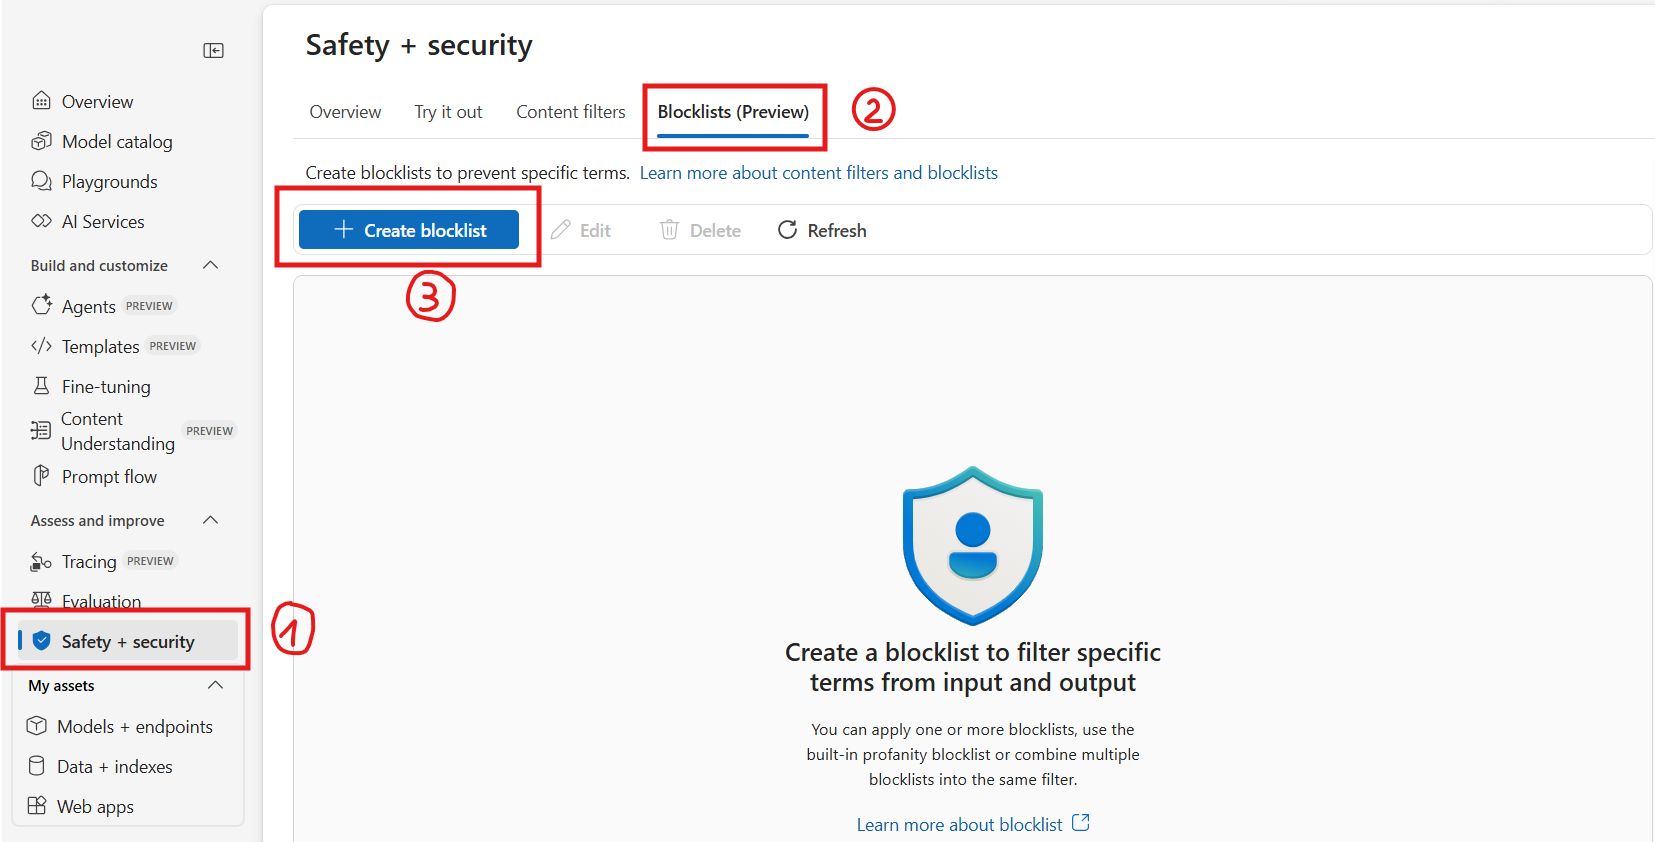
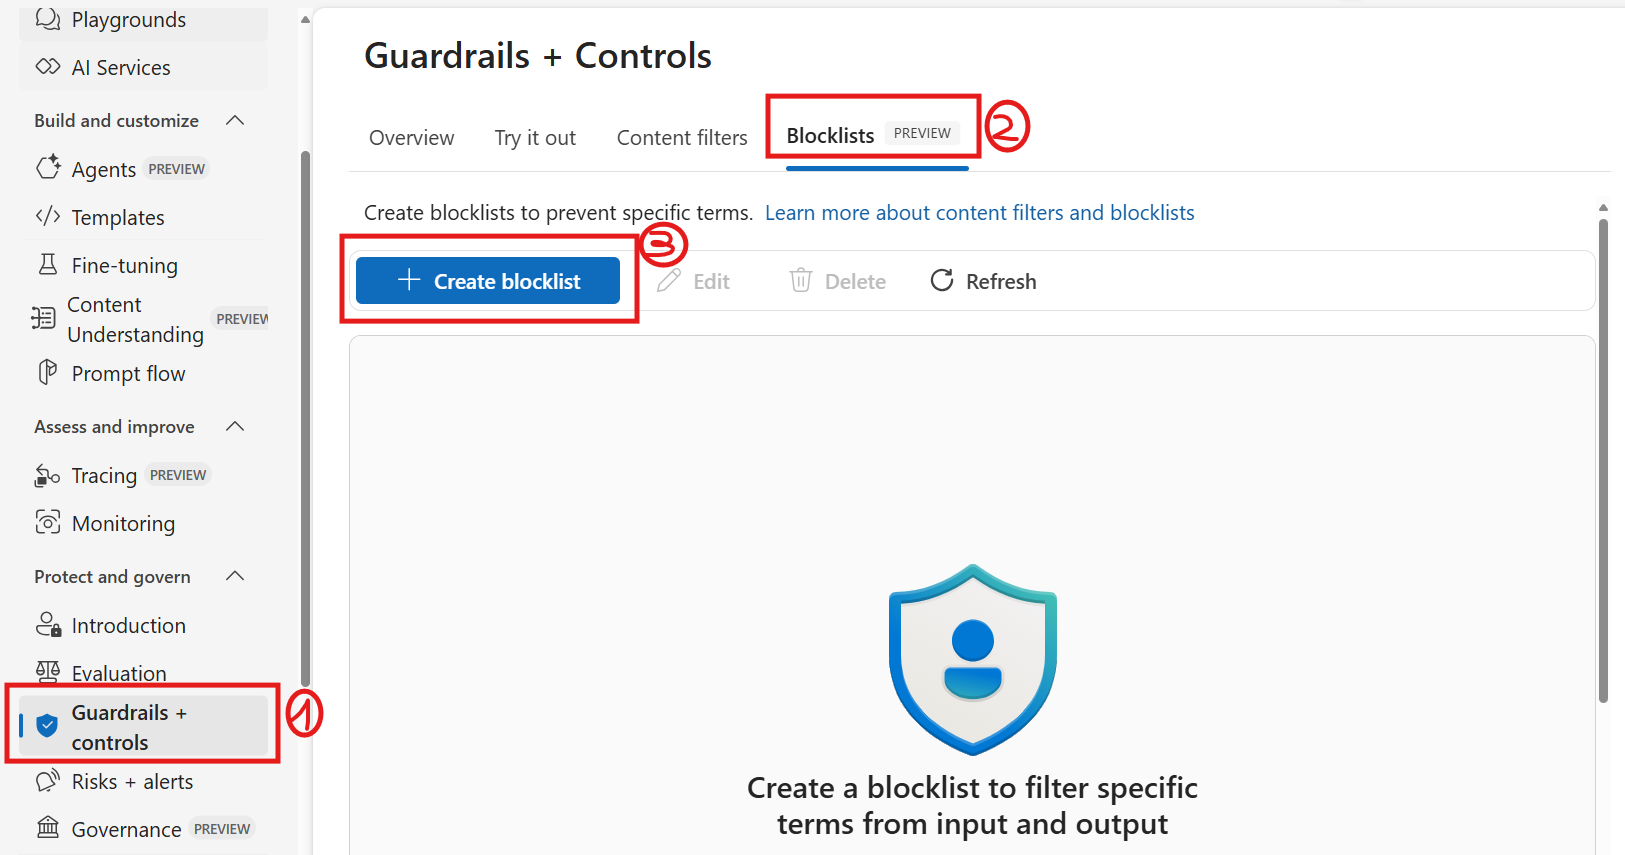
build updates

diff --git a/lab/Skillable Workshop Instructions/01_Set_up.md b/lab/Skillable Workshop Instructions/01_Set_up.md
@@ -30,7 +30,8 @@ In this workshop we will be working on Azure AI Foundry portal, focusing especia
 
 2. Locate the +++@lab.CloudResourceTemplate(LAB324).Parameters[aiHubFriendlyName]+++ in the list of available hubs. **Click on the project** with the hub to access its settings and resources.
 
-![Hub management tab](./Images/aifoundry-hub-navigation.jpeg)
+![Hub management tab](./Images/aifoundry-hub-navigation.png)
+
 
 > [!NOTE]
 > For the sake of this workshop an AI project with its related assets has been created for you, so you can focus on usage. Here's a list of resources that have been pre-provisioned in the workshop environment:
@@ -62,7 +63,8 @@ You will notice the navigation bar has updated with new tabs, which represent fu
 We have two new sections:
 1.  The first section includes _Overview_ which provides a general overview of your project, _Model Catalog_ which showcases the available models inside Azure AI Foundry, _Playgrounds_ to interact with the models, and _AI Services_ where you can see a list of Azure AI Services available along with demos, use cases and more.
 1. **Build and Customize**: This includes useful opportunities to expand your project's reach, such as _working in Code_ by running a cloud compute, creating executable flows that link LLMs, prompts, and Python tools with _Prompt Flow_, and the ability to carry out _Fine Tuning_ on your deployments.
-1. **Assess and Improve:** this includes _Evaluation_ processes for your applications, _Tracing_ to debug your flows and _content filters_ to add guardrails to prompt inputs and completion outputs.
+1. **Assess and Improve**: This includes _Tracing_ to debug your flows and _Monitoring_ to track the performance of your apps in real time.
+1. **Protect and govern**: This includes _Evaluation_ processes for your applications, _content filters_ to add guardrails to prompt inputs and completion outputs and _governance_ facilities to ensure compliance with your organization policies.
 1. **My assets**: Here you can add additional elements to the project, with resources such as _Data_, _Indexes_, _Models and endpoints_ and _Web apps_ to be used as part of your work.
 1. **Management Center:** a location to manage all you  hub and project details and resources.
 

diff --git a/lab/Skillable Workshop Instructions/06_AI_Agents.md b/lab/Skillable Workshop Instructions/06_AI_Agents.md
@@ -37,22 +37,20 @@ When building and interacting with an AI Agent in the Foundry Portal - as you ar
 
 ## Creating the Agent
 
-1. Under _Build and customize_ on the left navigation bar, select **Agents.** In the page that just opened up, click on the down arrow to select your Azure OpenAI Service resource then select the **Let's go** button.
+1. Under _Build and customize_ on the left navigation bar, select **Agents.** In the page that just opened up, click on the down arrow to select **gpt-4o-mini** model. Then click **Next**.
 
-![screenshot to select Aure OpenAI Service Resource](Images/agents-aoai-select.jpeg)
+![screenshot to select Aure OpenAI Service Resource](Images/agents-aoai-select.png)
 
-2. In the **Deployments** section, ensure you select **gpt-4o-mini** model. Then click **Next**.
-
-3. A new Agent will be created for you. Click on it, to be able to configure its properties. 
+2. A new Agent will be created for you. Click on it, to be able to configure its properties. 
 
     >[!TIP] 
     > **Ensure that you chose the correct deployment**. It should say **gpt-4o-mini** along with its version. 
 
-4. Next, let's name our Agent. Type the following in the Agent Name textbox:
+3. Next, let's name our Agent. Type the following in the Agent Name textbox:
 
     ```Contoso Outdoor Sales Agent```
 
-5. Next, we can provide the Agent with a set of **instructions**. Similar to the *System Message* we saw in previous sections, it provides the Agent with goals to follow. Copy the following instructions into the Instructions textbox.
+4. Next, we can provide the Agent with a set of **instructions**. Similar to the *System Message* we saw in previous sections, it provides the Agent with goals to follow. Copy the following instructions into the Instructions textbox.
 
     ``` 
     You are a sales Agent for Contoso Outdoor. You are polite, professional, helpful and friendly.

diff --git a/lab/Skillable Workshop Instructions/02_Text_Generation.md b/lab/Skillable Workshop Instructions/02_Text_Generation.md
@@ -200,7 +200,7 @@ Generative AI enables amazing creative solutions, but must be implemented respon
 
 To mitigate the risk of a similar behaviour, we can add an extra layer of mitigation, by customizing the content filtering system. 
 
-1. Navigate to **Safety + security** tab and select **Blocklists**
+1. Navigate to **Guardrails + controls** tab and select **Blocklists**
    ![Create a blocklist](./Images/create-blocklist.png)
 2. Name it **profanitySlang** and select the suggested Azure OpenAI Service in the dropdown menu as the connection. Then click on **Create blocklist**.
 3. Once your blocklist is created, click on it and select **Add a new term**
@@ -208,6 +208,7 @@ To mitigate the risk of a similar behaviour, we can add an extra layer of mitiga
    ![Add term to blocklist](./Images/add-term.png)
 5. Move back and then navigate to **Content filters** and select **Create content filter** button.
    ![Create content filter](./Images/create-content-filter.png)
+
 6. Name your filter **sexual_content_filter** and select the suggested Azure OpenAI Service in the dropdown menu as the connection. Then select **Next**.
 7. Under **Input filter**, set the slider for **sexual** as **High** and add the **profanitySlang** blocklist you just created. Click **Next** and repeat the same for the output filter configuration.
    ![Customizing filter](./Images/custom-filter.png)
@@ -217,7 +218,7 @@ To mitigate the risk of a similar behaviour, we can add an extra layer of mitiga
 Navigate back to chat playground and repeat the question again. See the results and compare with the first one.
 
  > !NOTE
- > The expected behavior is getting an error message with 400 error code. 
+ > The expected behavior is getting an error message with 400 error code.
 
 ## Next Steps
 

diff --git a/lab/Skillable Workshop Instructions/03_Reasoning_Models.md b/lab/Skillable Workshop Instructions/03_Reasoning_Models.md
@@ -15,11 +15,10 @@ Both of these completions count towards content generated from the model and hen
 
 ### Reasoning Models Available in Azure AI Foundry's Model Catalog
 
-- o1
-- DeepSeek-R1
-- o3-mini
-- o3
+- o1, o1-preview and o1-mini
+- o3 and o3-mini
 - o4-mini
+- DeepSeek-R1
 
 We will be working with **o4-mini** for this section.
 
